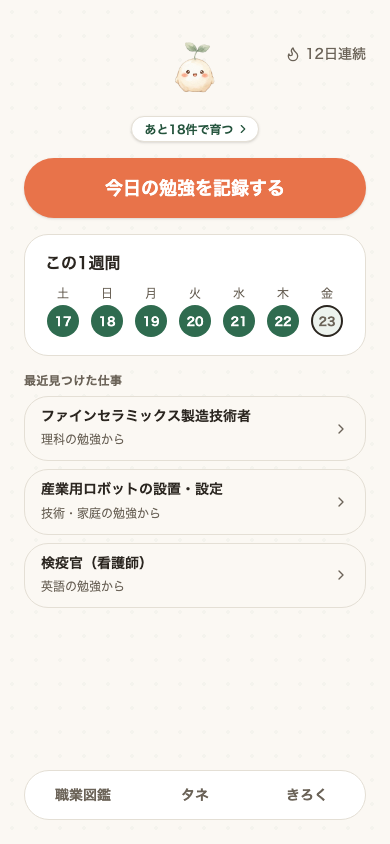
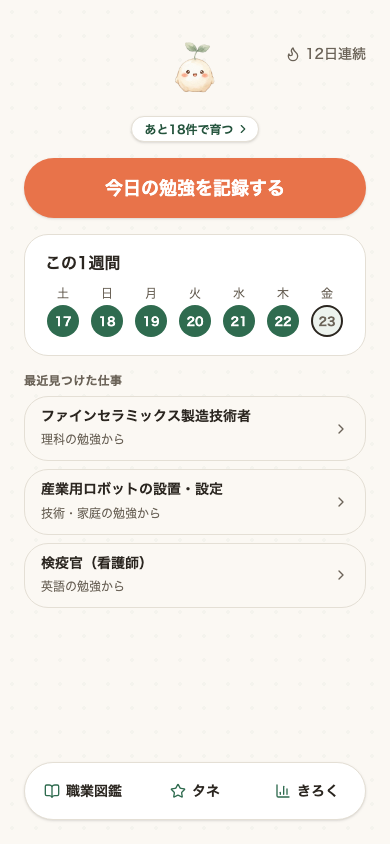
ホーム下の3つのボタンを押しやすくする
高さ40pxで灰色の文字だけだったため、押しにくく、押せるようにも見えにくかった。
高さを48pxにし、濃い文字とアイコン（本・星・グラフ）、押している間の薄い緑の
背景を付けた。丸い枠に3つが並ぶ形はきろくのタブと同じまま。
ホームのスクリーンショットも撮り直し。

Changed region(s): [[0.1231, 0.9242, 0.3077, 0.955], [0.7077, 0.9242, 0.8615, 0.955], [0.4308, 0.9242, 0.5538, 0.955]]

diff --git a/web/src/components/HomeScreen.tsx b/web/src/components/HomeScreen.tsx
@@ -1,4 +1,4 @@
-import { ChevronRight, Flame } from "lucide-react"
+import { BarChart3, BookOpen, ChevronRight, Flame, Star } from "lucide-react"
 import { useState } from "react"
 import type { RecordDetails, StudyLogEntry } from "../storage"
 import { formatMinutes } from "../format"
@@ -235,23 +235,25 @@ export function HomeScreen({
       </div>
 
       {/* 行動する（次へ）: ほかの画面への導線。きろくのタブ（今週・カレンダー・教科ごと）と
-          同じ見た目の、丸い枠に3つが並ぶ形にそろえる */}
+          同じ、丸い枠に3つが並ぶ形にそろえる。ただしタブと違い「押すと移る」ボタンなので、
+          高さを指で押しやすい48pxにし、濃い文字とアイコンで押せることが分かるようにする */}
       <nav
         aria-label="ほかの画面"
-        className="mt-auto grid grid-cols-3 gap-1 rounded-full border border-border-soft bg-white p-1 lg:mt-2"
+        className="mt-auto grid grid-cols-3 gap-1 rounded-full border border-border-soft bg-white p-1 shadow-sm lg:mt-2"
       >
         {[
-          { label: "職業図鑑", onClick: onOpenZukan },
-          { label: "タネ", onClick: onOpenTane },
-          { label: "きろく", onClick: onOpenKiroku },
-        ].map((item) => (
+          { label: "職業図鑑", icon: BookOpen, onClick: onOpenZukan },
+          { label: "タネ", icon: Star, onClick: onOpenTane },
+          { label: "きろく", icon: BarChart3, onClick: onOpenKiroku },
+        ].map(({ label, icon: Icon, onClick }) => (
           <button
-            key={item.label}
+            key={label}
             type="button"
-            onClick={item.onClick}
-            className="h-10 rounded-full text-sm font-bold text-charcoal-muted transition hover:bg-sage-50 hover:text-sage-700"
+            onClick={onClick}
+            className="flex h-12 items-center justify-center gap-1.5 rounded-full text-sm font-bold text-charcoal transition hover:bg-sage-50 active:bg-sage-100"
           >
-            {item.label}
+            <Icon className="h-4 w-4 shrink-0 text-sage-600" strokeWidth={2} />
+            {label}
           </button>
         ))}
       </nav>
